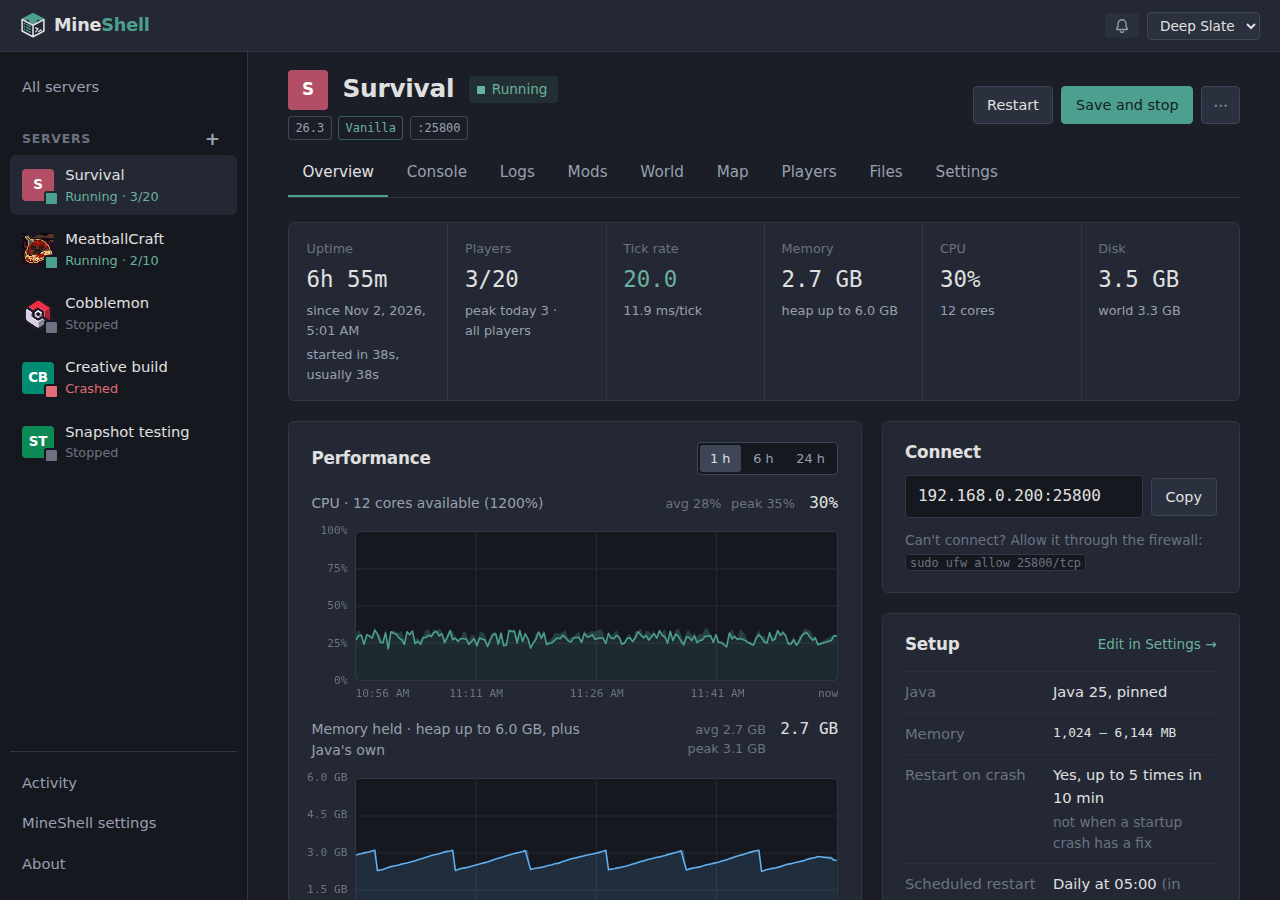
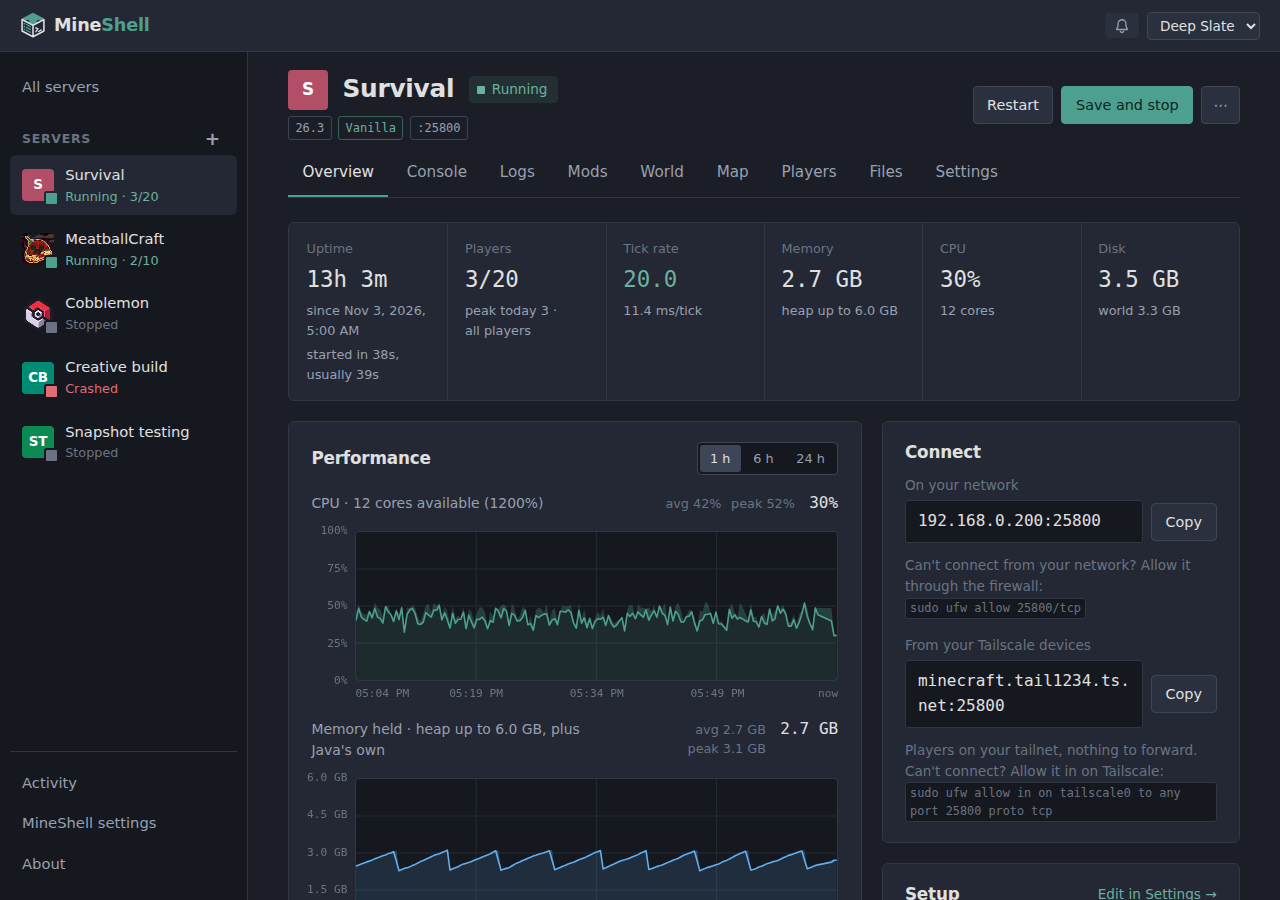
fix: a long address or firewall command in the Connect box stays inside it
The address field had no room to shrink, so a long one (a tailnet name, a playit.gg
address) pushed its Copy button out of the panel, and the firewall commands were kept on
one line, so Tailscale's longer ufw rule ran past the edge. The address now wraps inside its
field, and a command still moves to the next line whole but breaks when it is longer than
a line. The overview screenshots are redrawn with the Tailscale row.

diff --git a/src/routes/instances/[id]/+page.svelte b/src/routes/instances/[id]/+page.svelte
@@ -1033,8 +1033,12 @@
 		margin: var(--space-3) 0;
 	}
 
+	/* An address can be one long word (a tailnet name, playit.gg's): it wraps inside the
+	   panel instead of pushing Copy out of it. */
 	.address code {
 		flex: 1;
+		min-width: 0;
+		overflow-wrap: anywhere;
 		font-size: 1rem;
 		padding: 0.5rem 0.75rem;
 	}
@@ -1057,8 +1061,12 @@
 		margin-top: var(--space-4);
 	}
 
+	/* A command moves to the next line whole, and breaks only when longer than a line
+	   (Tailscale's ufw rule in a narrow column). */
 	.address + p code {
-		white-space: nowrap;
+		display: inline-block;
+		max-width: 100%;
+		overflow-wrap: anywhere;
 	}
 
 	.facts {
